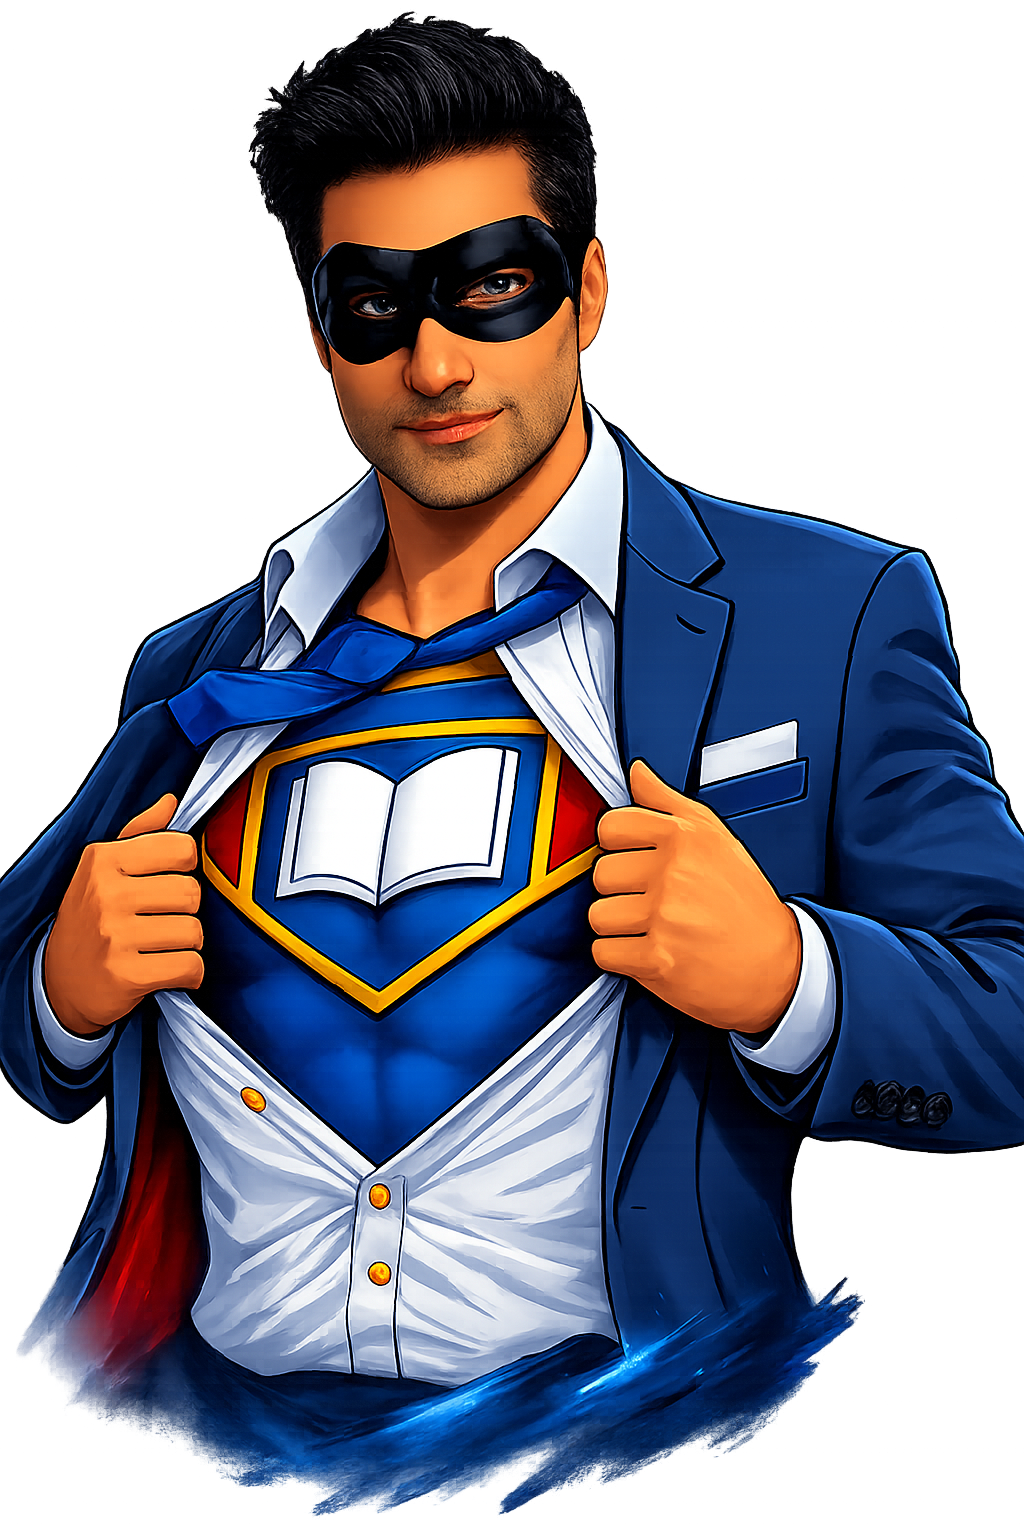
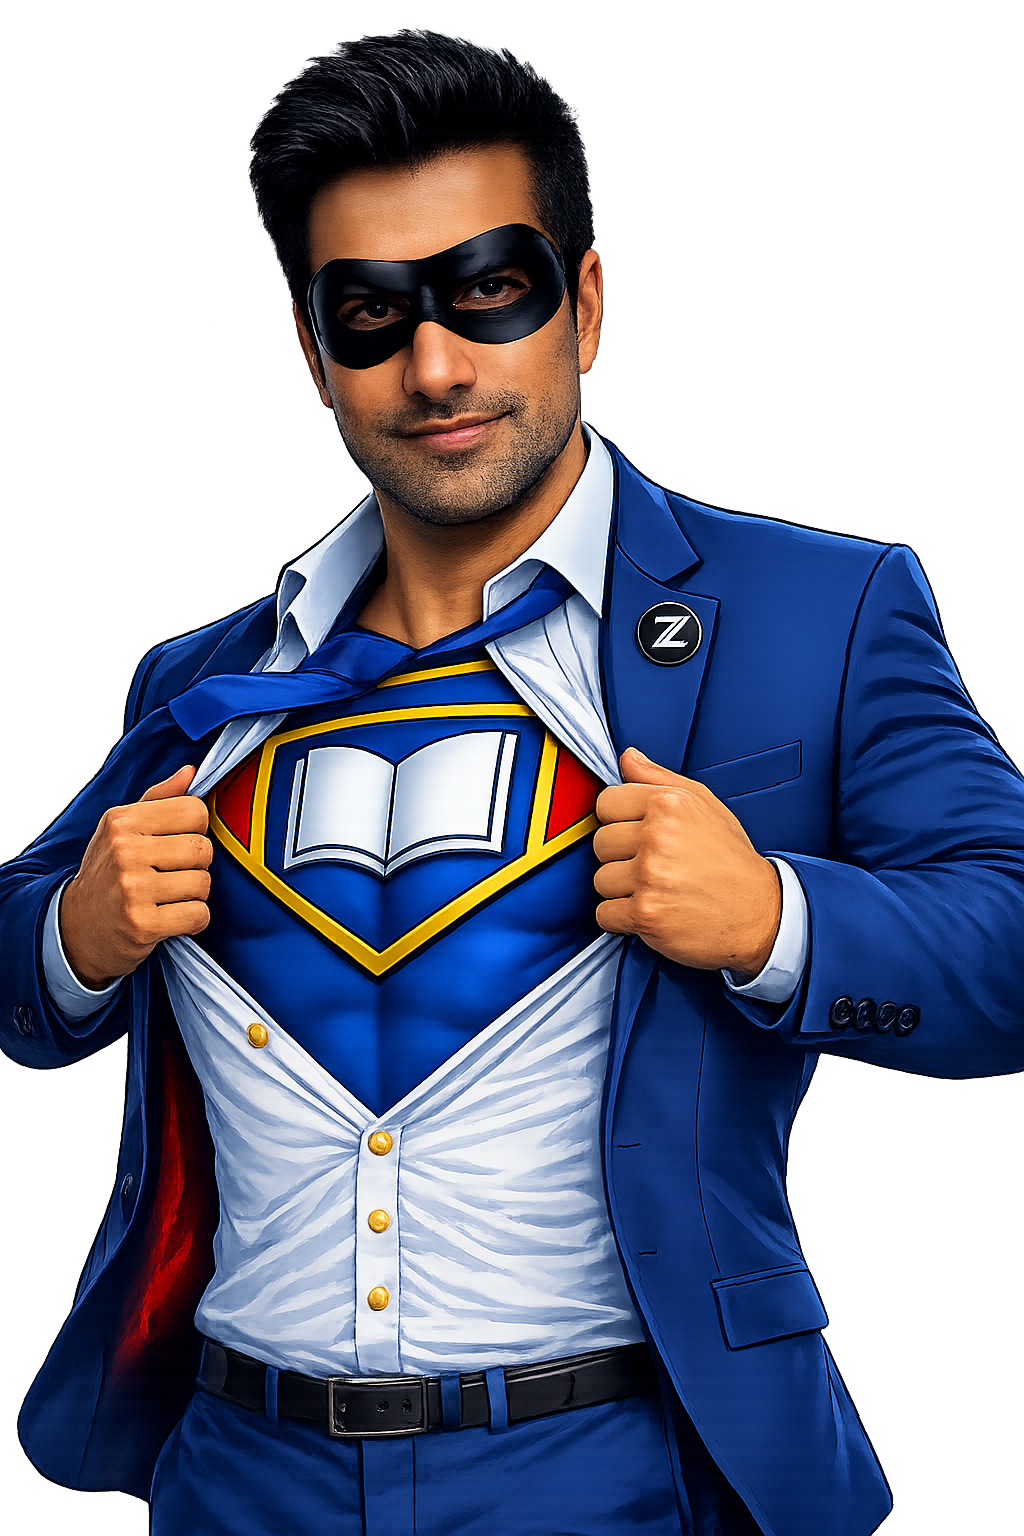
change image face

diff --git a/index.html b/index.html
@@ -55,7 +55,7 @@ gtag('config', 'G-BPX7LSMBBE');
 
   <header class="topbar">
     <div class="topbar-left">
-      <img class="logo-img" src="images/SupMe.png?v=2" alt="Zero to Hero logo" />
+      <img class="logo-img" src="images/SupMe.png?v=4" alt="Zero to Hero logo" />
     </div>
 
     <div class="topbar-center">
